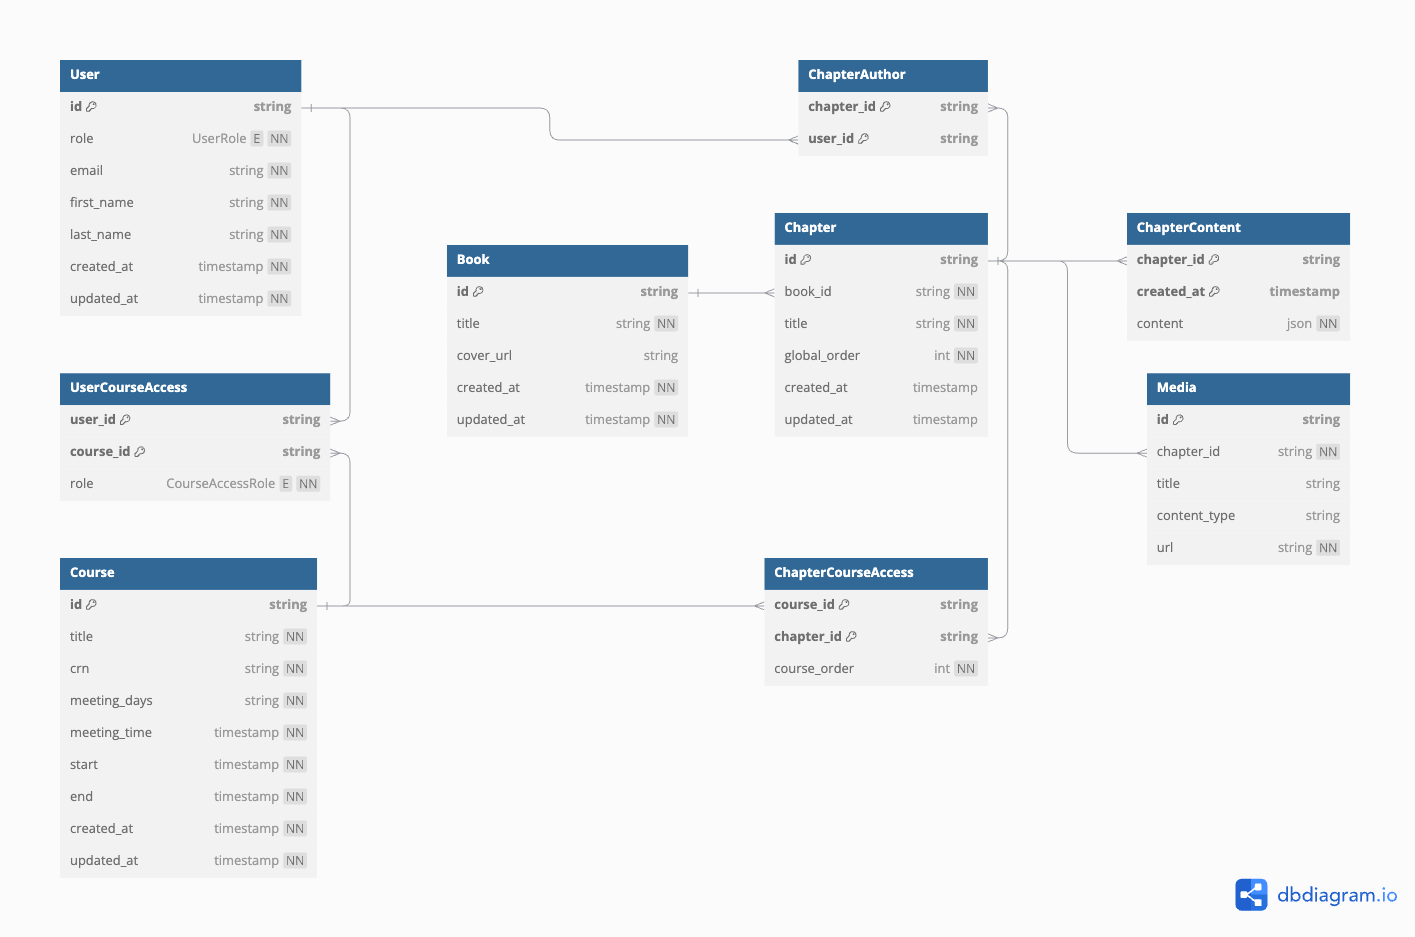
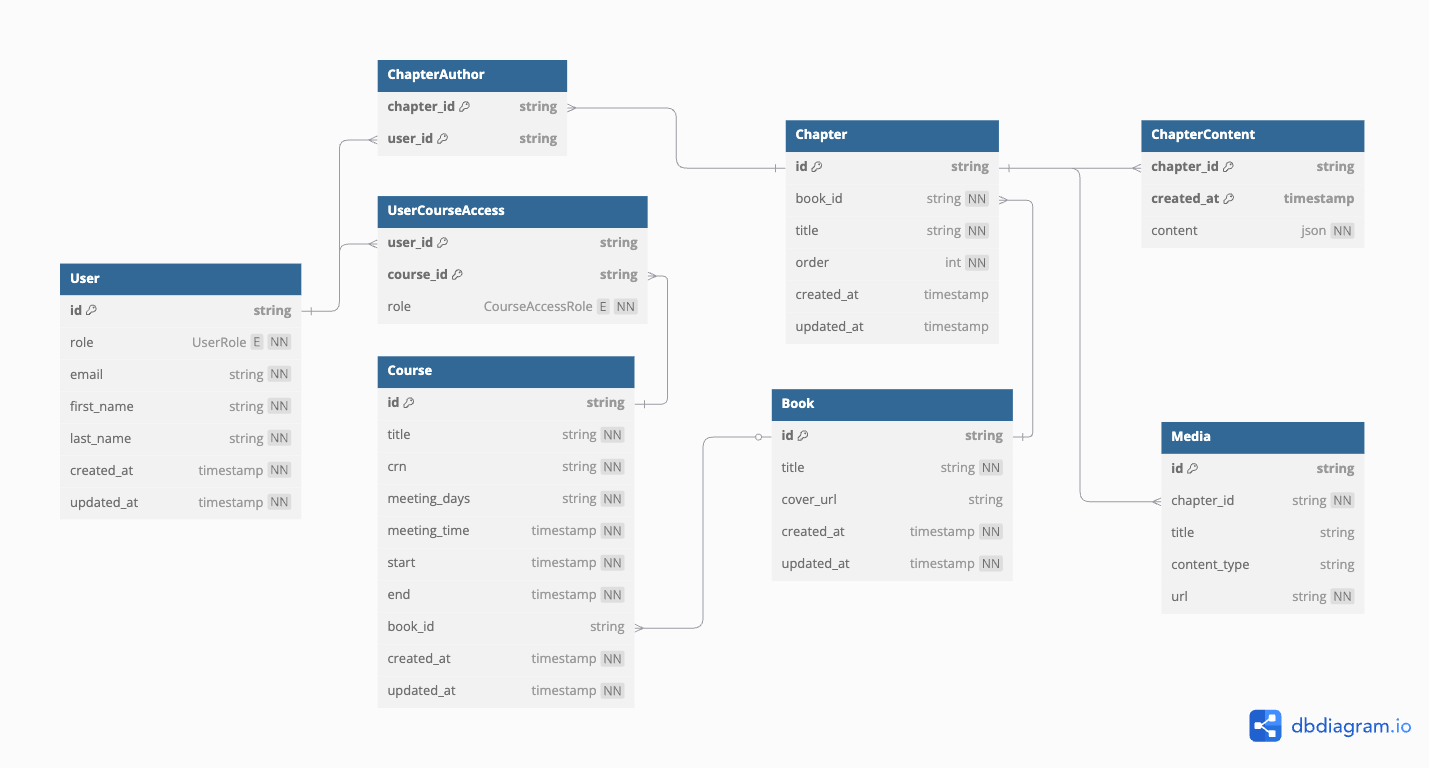
Update README and db diagram

diff --git a/README.md b/README.md
@@ -12,9 +12,20 @@ Artissimo is a custom learning management system built for the University of Sou
 - [PostgreSQL](https://www.postgresql.org/) - Database
 - [Supabase](https://supabase.co/) – Authentication
 
+### Core Concepts
+
+Artissimo was designed to host learning content in a book-based structure. Below are definitions of some core concepts:
+
+* **Users**: Users of the app, which come in four permission-based flavors: admin, instructor, student, and guest
+    * Each user type is associated with a slightly different in-app view
+* **Books**: Collections of chapters
+* **Chapters**: A knowledge entity containing text, inline reflection questions, and attached media
+* **Courses**: Segmented groups of users
+    * A course is associated with one book, allowing users of the course to access the chapters within the book
+
 ### Data Models
 
-Artissimo was designed to host learning content in a book-based structure. It supports four user types: admins, instructors, students, and guests. Each has varying levels of access to resources. Below is a diagram of the data models, designed with [dbdiagram.io](https://dbdiagram.io/).
+Below is a diagram of the database models (created using[dbdiagram.io](https://dbdiagram.io/)):
 
 ![Artissimo data models](./public/data-models.png "Artissimo Data Models")
 
@@ -22,13 +33,19 @@ Artissimo was designed to host learning content in a book-based structure. It su
 
 This project is currently in active development. Please check back later!
 
-#### V1
-* Role-Based Views (Admin, Instructor, Student, Guest)
-* User Management
-* Book/Chapter Management
-* Course Management
-* Chapter Content Management
+#### V0
+* Admin & Instructor Views
+    * User management
+    * Book / Chapter management
+    * Course management
+    * Role previews
+* Student & Guest Views
+    * Book / Chapter views
 
 #### V1
-* Reflection Questions Submission
-* Reflection Questions Review & Export
+* Inline reflection question versioning
+* Admin & Instructor Views
+    * Reflection question creation
+    * Reflection question review and export
+* Student & Guest Views
+    * Reflection question submission
